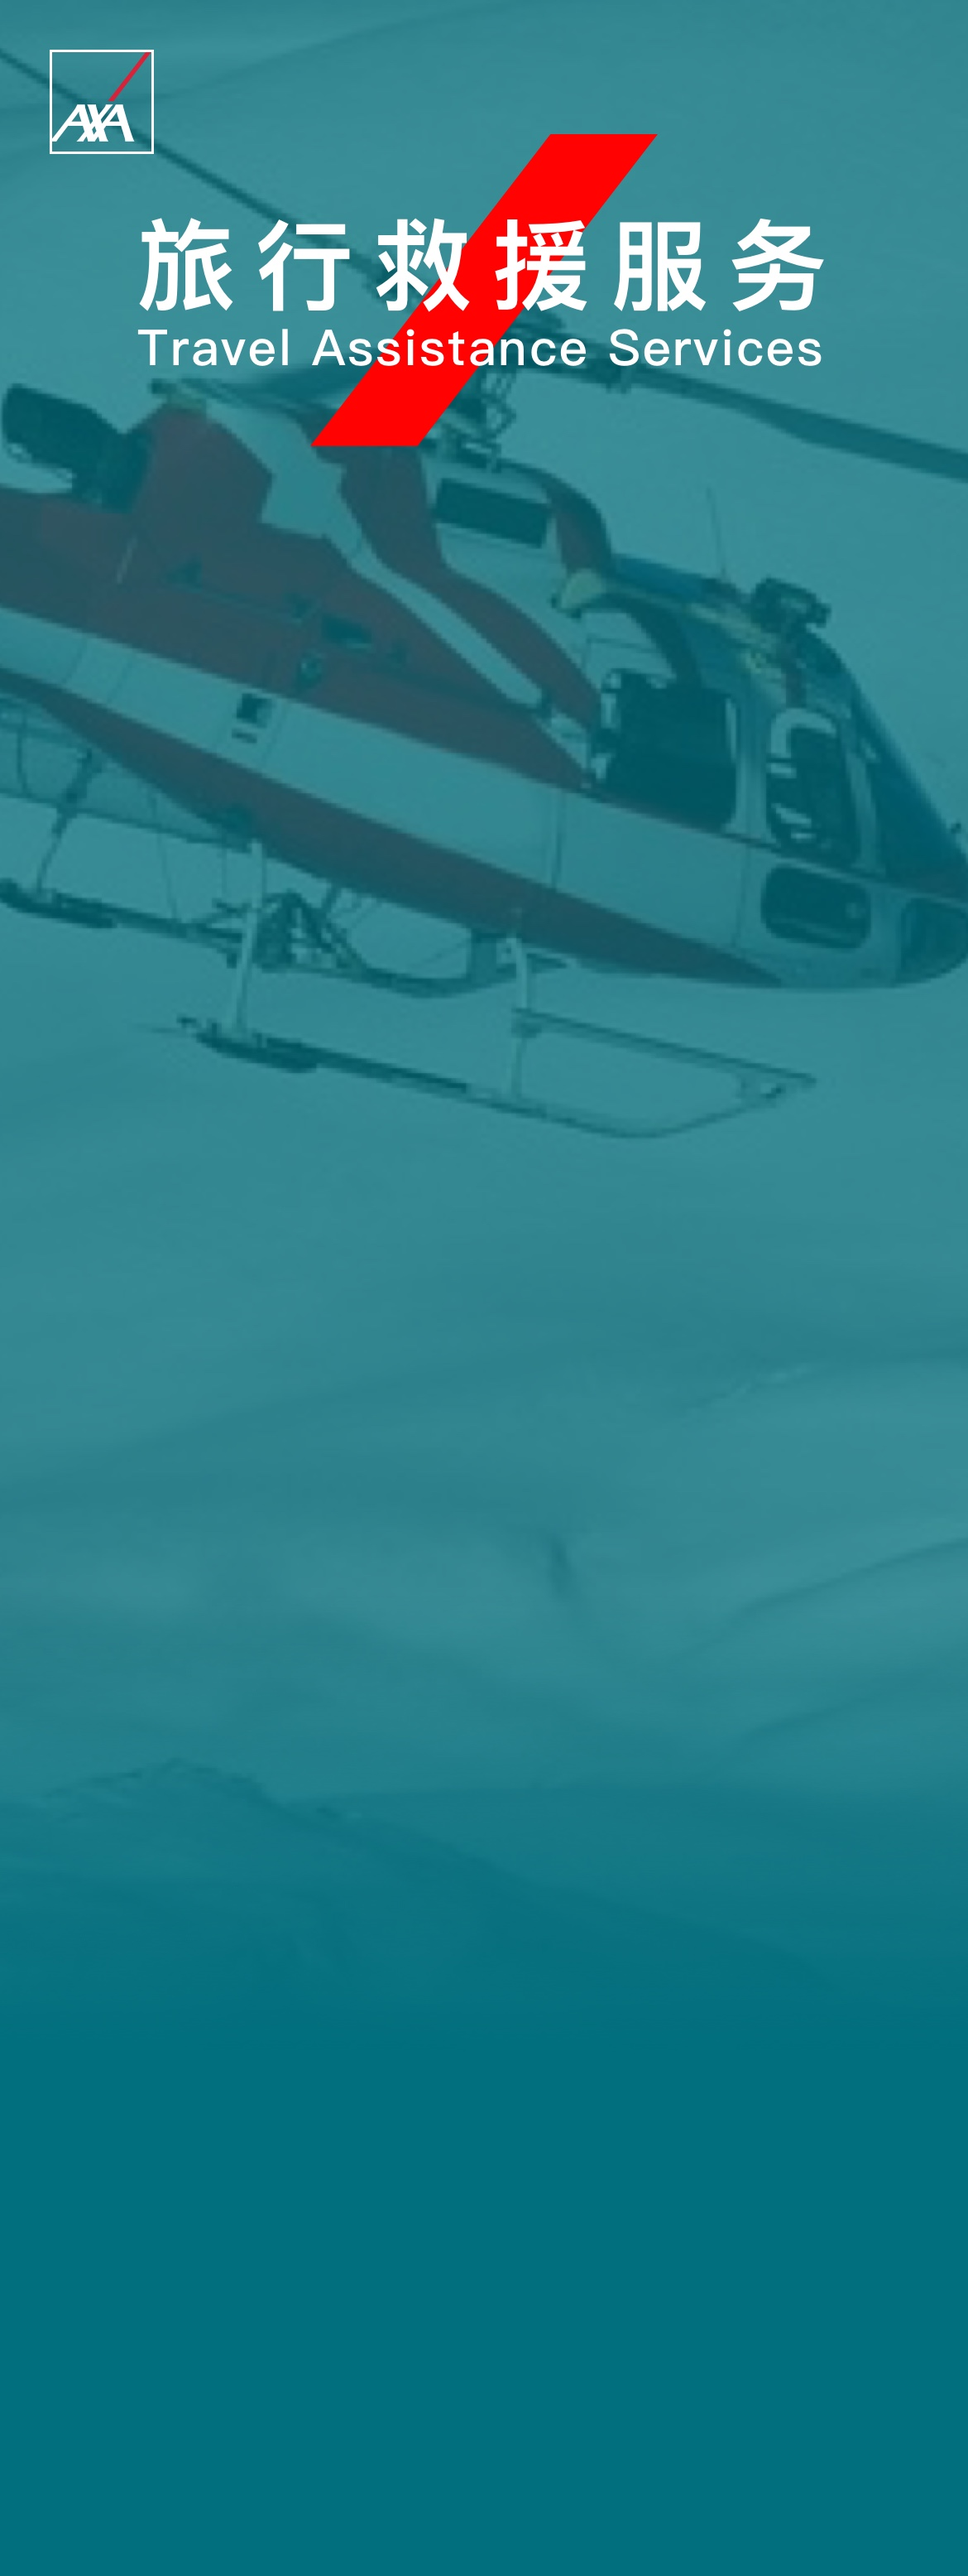
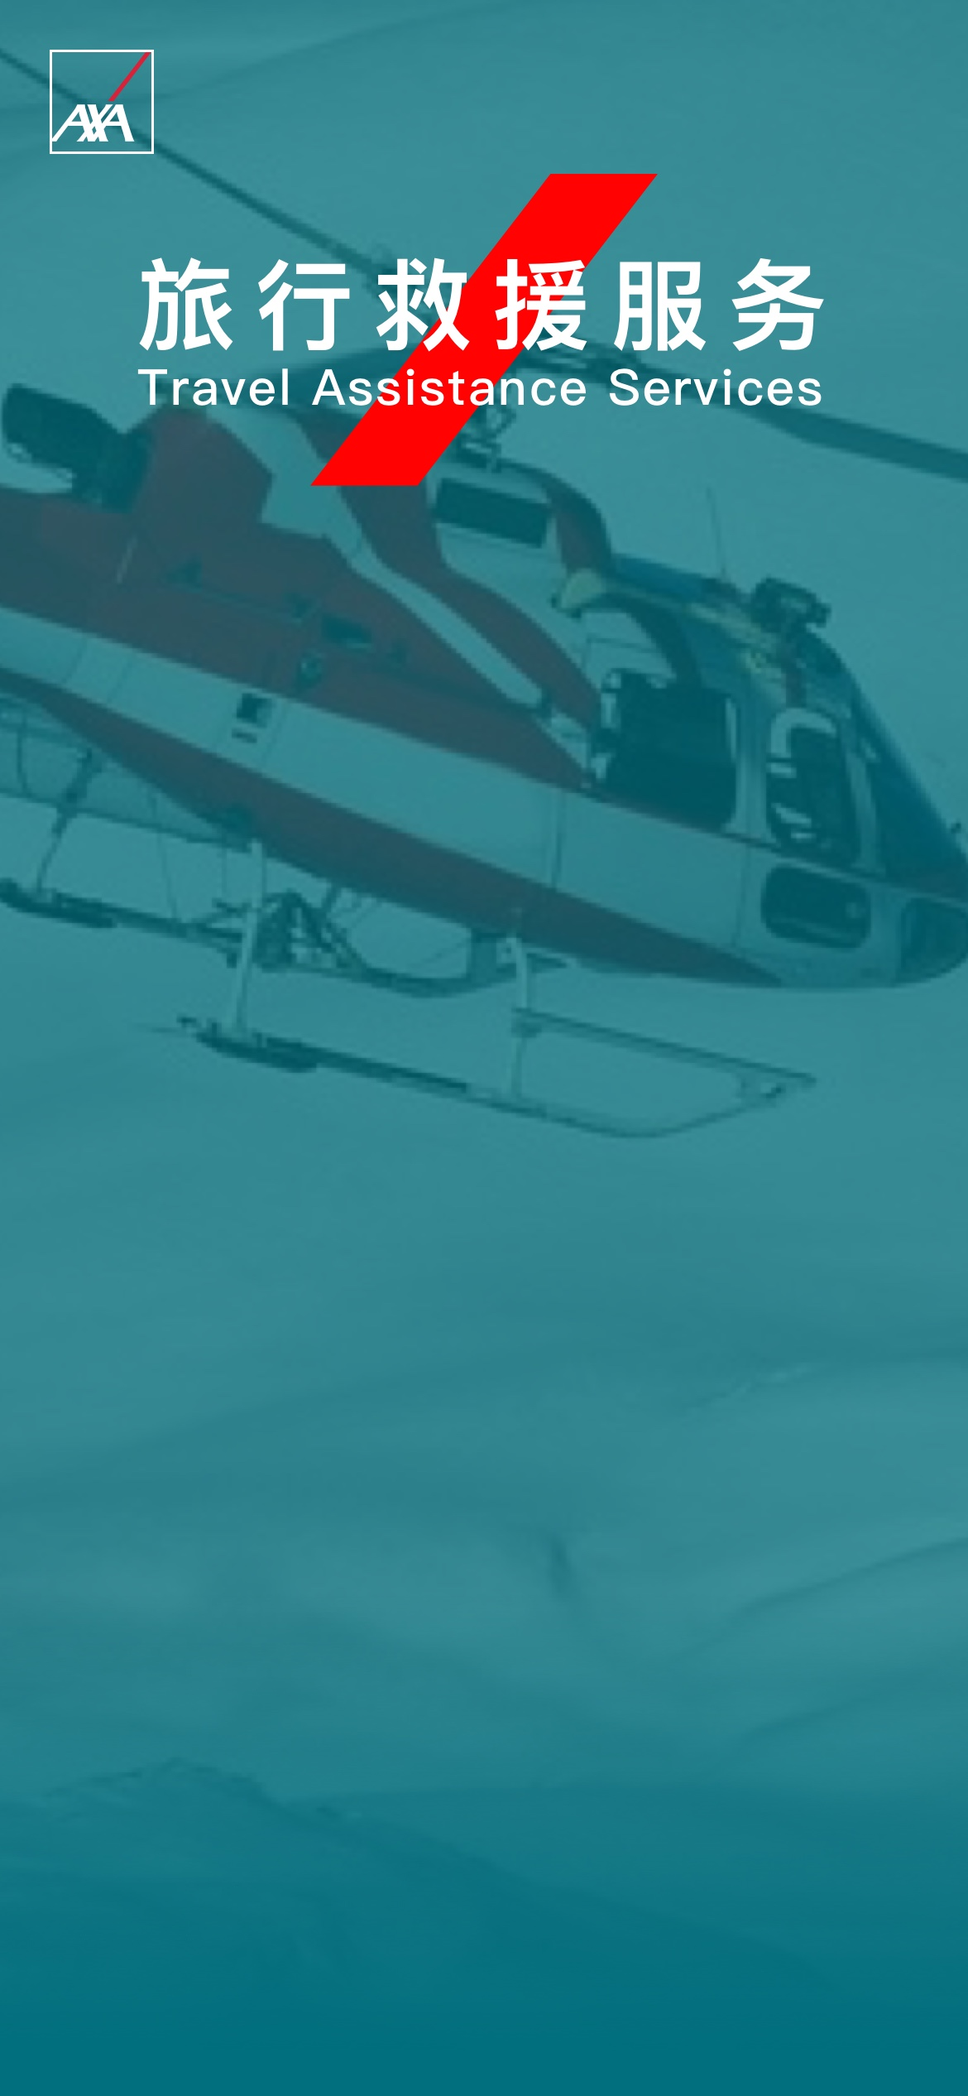
静态文件修改

diff --git a/src/pages/Assistance/Assistance.vue b/src/pages/Assistance/Assistance.vue
@@ -1,14 +1,8 @@
 <template>
   <div class="body_box">
     <div class="menu_box">
-      <div
-        class="home_menu_btn"
-        v-for="t in 9"
-        :key="t"
-        @click="itemClick(t)"
-      >
-        <img class="btn_img"
-        :src="imgArr[t-1]"/>
+      <div class="home_menu_btn" v-for="t in 9" :key="t" @click="itemClick(t)">
+        <img class="btn_img" :src="imgArr[t - 1]" />
       </div>
     </div>
   </div>
@@ -16,33 +10,33 @@
 
 <script>
 export default {
-  name: 'Assistance',
-  data () {
+  name: "Assistance",
+  data() {
     return {
       imgArr: [
-        require('../../assets/images/assistance/button_Assistance01.png'),
-        require('../../assets/images/assistance/button_Assistance02.png'),
-        require('../../assets/images/assistance/button_Assistance03.png'),
-        require('../../assets/images/assistance/button_Assistance04.png'),
-        require('../../assets/images/assistance/button_Assistance05.png'),
-        require('../../assets/images/assistance/button_Assistance06.png'),
-        require('../../assets/images/assistance/button_Assistance07.png'),
-        require('../../assets/images/assistance/button_Assistance08.png'),
-        require('../../assets/images/assistance/button_Assistance09.png')
-      ]
-    }
+        require("../../assets/images/assistance/button_Assistance01.png"),
+        require("../../assets/images/assistance/button_Assistance02.png"),
+        require("../../assets/images/assistance/button_Assistance03.png"),
+        require("../../assets/images/assistance/button_Assistance04.png"),
+        require("../../assets/images/assistance/button_Assistance05.png"),
+        require("../../assets/images/assistance/button_Assistance06.png"),
+        require("../../assets/images/assistance/button_Assistance07.png"),
+        require("../../assets/images/assistance/button_Assistance08.png"),
+        require("../../assets/images/assistance/button_Assistance09.png"),
+      ],
+    };
   },
   methods: {
-    itemClick (t) {
+    itemClick(t) {
       this.$router.push({
-        name: 'aadetails',
+        name: "aadetails",
         params: {
-          id: 'ass' + t
-        }
-      })
-    }
-  }
-}
+          id: "ass" + t,
+        },
+      });
+    },
+  },
+};
 </script>
 
 <style scoped>
@@ -59,8 +53,7 @@ export default {
   /* border: 1px solid transparent; */
   padding-top: 270px;
   box-sizing: border-box;
-    background-color: #016F7E;
-
+  background-color: #016f7e;
 }
 .menu_box {
   /* margin-top: 320px; */

diff --git a/src/components/Details/AADetails.vue b/src/components/Details/AADetails.vue
@@ -90,17 +90,16 @@ export default {
 .content {
   font-size: 16px;
   color: #4d4d4d;
-  letter-spacing: 1px;
   text-align: justify;
   line-height: 30px;
   padding: 0 24px;
   white-space: pre-line;
 }
 .content h3 {
-  font-family: PingFangSC-Semibold;
+  /* font-family: PingFangSC-Semibold; */
   font-size: 16px;
   color: #016f7e;
-  letter-spacing: 1px;
+  /* letter-spacing: 1px; */
   text-align: justify;
   line-height: 30px;
   font-weight: 600;
@@ -109,7 +108,7 @@ export default {
 }
 .content p {
   font-weight: 400;
-  font-family: PingFangSC-Regular;
+  /* font-family: PingFangSC-Regular; */
   font-size: 14px;
   color: #4d4d4d;
   letter-spacing: 0;

diff --git a/src/pages/Home/Home.vue b/src/pages/Home/Home.vue
@@ -70,7 +70,7 @@ export default {
 
 <style scoped>
 .body_box {
-  background-image: url("../../assets/images/home/home_bg.jpeg");
+  background-image: url("../../assets/images/home/home_bg.jpg");
   background-size: 100%;
   background-repeat: no-repeat;
   background-position: center top;

diff --git a/src/components/Details/Details.vue b/src/components/Details/Details.vue
@@ -88,7 +88,7 @@ export default {
   padding: 0 24px;
   white-space: pre-line; */
 
-  font-family: PingFangSC-Regular;
+  /* font-family: PingFangSC-Regular; */
   font-size: 14px;
   color: #4d4d4d;
   letter-spacing: 1px;
